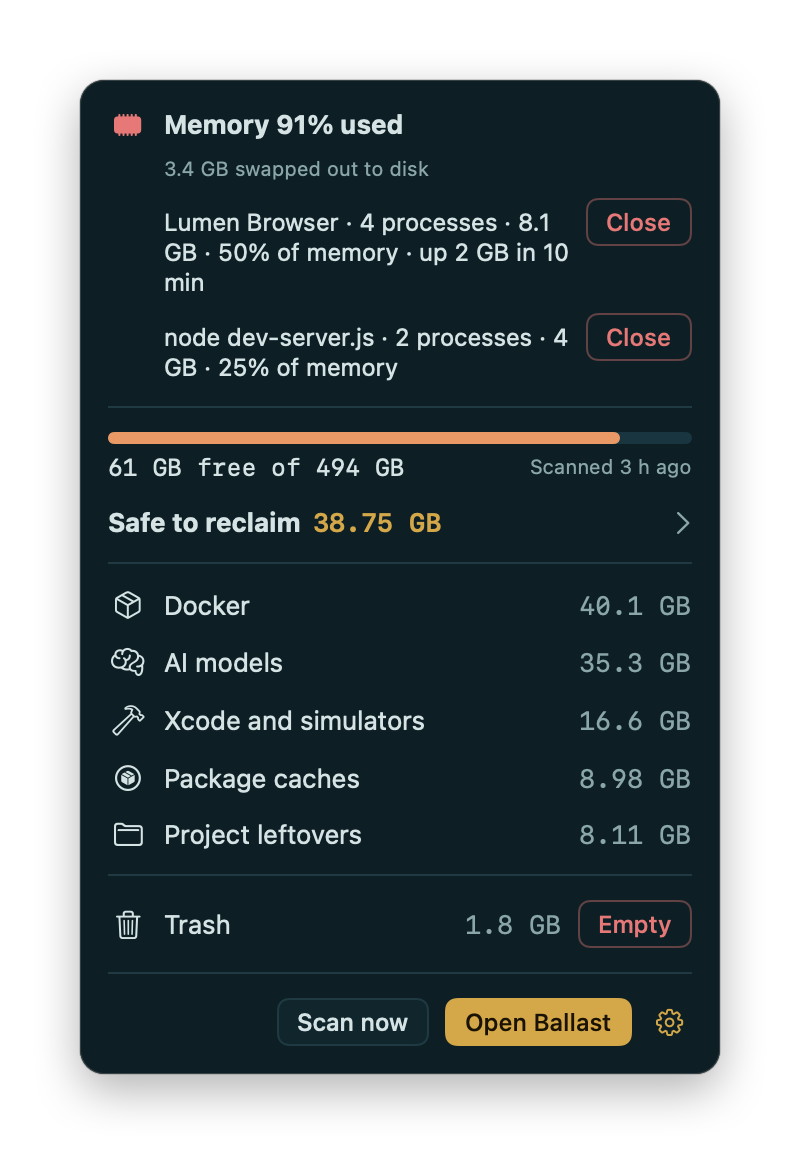
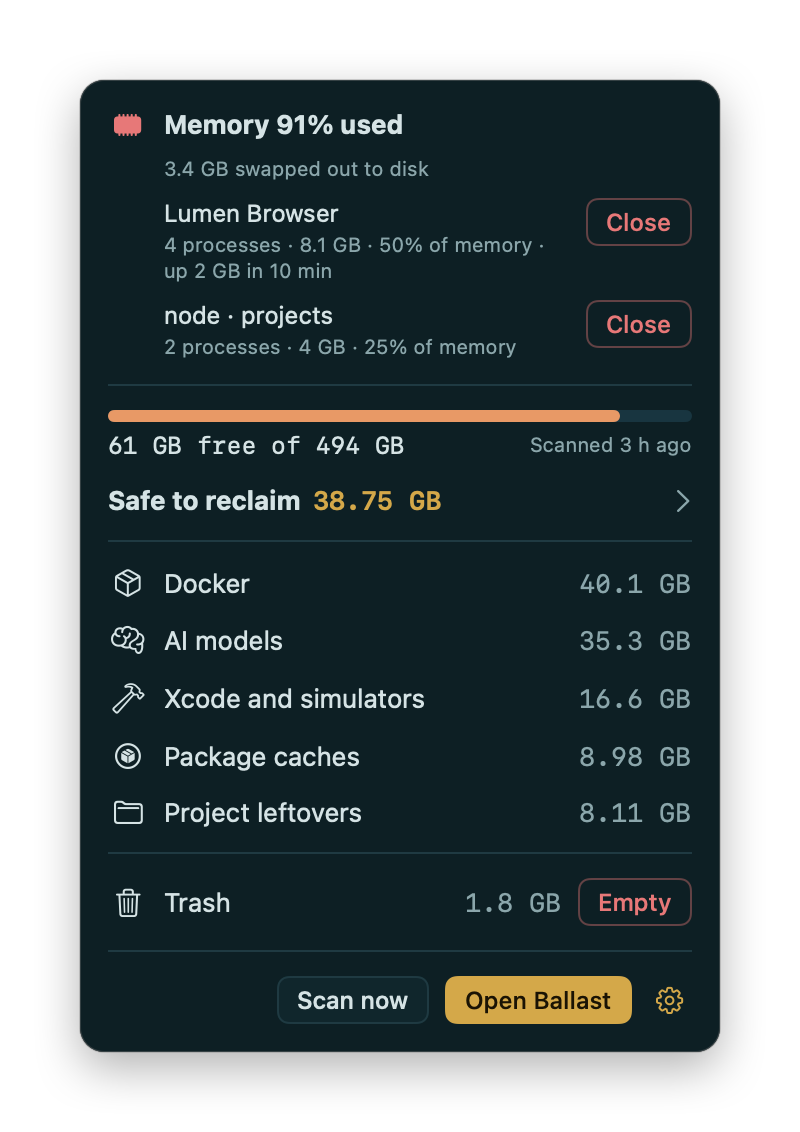
Two-line culprit rows, honest empty state, README and PR text

diff --git a/Tests/BallastCoreTests/MemoryWatchTests.swift b/Tests/BallastCoreTests/MemoryWatchTests.swift
@@ -245,26 +245,43 @@ private func culprit(_ name: String, count: Int, bytes: Int64, share: Int, growt
     return Culprit(group: MemoryGroup(id: name, name: name, processes: procs, bytes: bytes), share: share, growth: growth, growthSeconds: seconds)
 }
 
+private let nb = "\u{00A0}"
+
+/// The details line keeps each figure on one line: a space inside one is a no-break space.
+private func figure(_ s: String) -> String { s.replacingOccurrences(of: " ", with: nb) }
+
 @Suite struct CulpritLineTests {
+    @Test func nameIsJustTheName() {
+        #expect(culpritName(culprit("node · projects", count: 8, bytes: 22 * gb, share: 69)) == "node · projects")
+    }
+
     @Test func singleProcessOmitsCount() {
-        #expect(culpritLine(culprit("Brave Browser", count: 1, bytes: 22 * gb, share: 69)) == "Brave Browser · \(formatBytes(22 * gb)) · 69% of memory")
+        #expect(culpritDetails(culprit("Brave Browser", count: 1, bytes: 22 * gb, share: 69)) == "\(figure(formatBytes(22 * gb))) · 69%\(nb)of\(nb)memory")
     }
 
     @Test func groupShowsCountAndGrowth() {
         let c = culprit("vitest", count: 8, bytes: 31 * gb, share: 31, growth: 24 * gb, seconds: 120)
-        #expect(culpritLine(c) == "vitest · 8 processes · \(formatBytes(31 * gb)) · 31% of memory · up \(formatBytes(24 * gb)) in 2 min")
+        #expect(culpritDetails(c) == "8\(nb)processes · \(figure(formatBytes(31 * gb))) · 31%\(nb)of\(nb)memory · up\(nb)\(figure(formatBytes(24 * gb)))\(nb)in\(nb)2\(nb)min")
+    }
+
+    @Test func detailsNeverBreakInsideAFigure() {
+        let c = culprit("vitest", count: 8, bytes: 34 * gb, share: 69, growth: 7 * gb, seconds: 30)
+        let parts = culpritDetails(c).components(separatedBy: " · ")
+        #expect(parts.count == 4)
+        for part in parts { #expect(!part.contains(" ")) }
+        #expect(parts[3].hasPrefix("up\(nb)"))
     }
 
     @Test func growthDurationUnits() {
-        func tail(_ s: Int) -> String { culpritLine(culprit("a", count: 1, bytes: 5 * gb, share: 30, growth: 2 * gb, seconds: s)) }
-        #expect(tail(45).hasSuffix("in 45 s"))
-        #expect(tail(119).hasSuffix("in 119 s"))
-        #expect(tail(120).hasSuffix("in 2 min"))
-        #expect(tail(150).hasSuffix("in 2 min"))
-        #expect(tail(3 * 3600 + 100).hasSuffix("in 3 hr"))
+        func tail(_ s: Int) -> String { culpritDetails(culprit("a", count: 1, bytes: 5 * gb, share: 30, growth: 2 * gb, seconds: s)) }
+        #expect(tail(45).hasSuffix("in\(nb)45\(nb)s"))
+        #expect(tail(119).hasSuffix("in\(nb)119\(nb)s"))
+        #expect(tail(120).hasSuffix("in\(nb)2\(nb)min"))
+        #expect(tail(150).hasSuffix("in\(nb)2\(nb)min"))
+        #expect(tail(3 * 3600 + 100).hasSuffix("in\(nb)3\(nb)hr"))
     }
 
     @Test func noGrowthMeansNoUpPart() {
-        #expect(!culpritLine(culprit("a", count: 2, bytes: 5 * gb, share: 30)).contains("up"))
+        #expect(!culpritDetails(culprit("a", count: 2, bytes: 5 * gb, share: 30)).contains("up"))
     }
 }

diff --git a/Sources/Ballast/Screenshots.swift b/Sources/Ballast/Screenshots.swift
@@ -72,16 +72,16 @@ import SwiftUI
     /// A made-up strained Mac: an invented browser with a runaway helper and a made-up dev server, both owned by the current user.
     static func fillMemory(_ model: AppModel) {
         let me = getuid()
-        func sample(_ pid: Int32, _ path: String, _ args: [String], _ gbs: Double) -> ProcessSample {
-            ProcessSample(pid: pid, startSeconds: 1_700_000_000, uid: me, path: path, args: args, cwd: nil, footprint: Int64(gbs * Double(gb)))
+        func sample(_ pid: Int32, _ path: String, _ args: [String], _ gbs: Double, cwd: String? = nil) -> ProcessSample {
+            ProcessSample(pid: pid, startSeconds: 1_700_000_000, uid: me, path: path, args: args, cwd: cwd, footprint: Int64(gbs * Double(gb)))
         }
         let browser = [sample(41_001, "/Applications/Lumen Browser.app/Contents/MacOS/Lumen Browser", [], 1.2),
                        sample(41_002, "/Applications/Lumen Browser.app/Contents/Helpers/Lumen Helper", [], 3.1),
                        sample(41_003, "/Applications/Lumen Browser.app/Contents/Helpers/Lumen Helper", [], 2.4),
                        sample(41_004, "/Applications/Lumen Browser.app/Contents/Helpers/Lumen Helper", [], 1.4)]
-        let server = [sample(42_001, "/usr/local/bin/node", ["node", "dev-server.js"], 2.2), sample(42_002, "/usr/local/bin/node", ["node", "dev-server.js"], 1.8)]
+        let server = [sample(42_001, "/usr/local/bin/node", ["node", "dev-server.js"], 2.2, cwd: "/Users/you/projects"), sample(42_002, "/usr/local/bin/node", ["node", "dev-server.js"], 1.8, cwd: "/Users/you/projects")]
         let groups = [MemoryGroup(id: "app:/Applications/Lumen Browser.app", name: "Lumen Browser", processes: browser, bytes: browser.reduce(0) { $0 + $1.footprint }),
-                      MemoryGroup(id: "cli:node dev-server.js", name: "node dev-server.js", processes: server, bytes: server.reduce(0) { $0 + $1.footprint })]
+                      MemoryGroup(id: "runtime:node:/Users/you/projects", name: "node · projects", processes: server, bytes: server.reduce(0) { $0 + $1.footprint })]
         let physical = 16 * gb
         model.memory.isRed = true
         model.memory.usedPercent = 91

diff --git a/Sources/Ballast/MemoryBlock.swift b/Sources/Ballast/MemoryBlock.swift
@@ -18,7 +18,7 @@ struct MemoryBlock: View {
                 Text("\(formatBytes(memory.swapUsed)) swapped out to disk").font(.caption).foregroundStyle(Theme.muted).padding(.leading, 28)
             }
             if memory.culprits.isEmpty {
-                Text("Nothing stands out: memory is spread across lots of small processes.")
+                Text("Nothing Ballast can measure stands out. It can't see inside macOS's or other users' processes.")
                     .font(.caption).foregroundStyle(Theme.muted).padding(.leading, 28)
             } else {
                 ForEach(memory.culprits, id: \.group.id) { c in row(c) }
@@ -28,9 +28,13 @@ struct MemoryBlock: View {
 
     private func row(_ c: Culprit) -> some View {
         let option = closeOption(for: c.group, myUID: getuid(), myPID: ProcessInfo.processInfo.processIdentifier)
+        let name = culpritName(c)
         return VStack(alignment: .leading, spacing: 4) {
-            HStack(alignment: .firstTextBaseline) {
-                Text(culpritLine(c)).font(.callout).fixedSize(horizontal: false, vertical: true)
+            HStack(alignment: .top, spacing: 6) {
+                VStack(alignment: .leading, spacing: 2) {
+                    Text(name).font(.callout).lineLimit(1).truncationMode(.middle)
+                    Text(culpritDetails(c)).font(.caption).foregroundStyle(Theme.muted).fixedSize(horizontal: false, vertical: true)
+                }
                 Spacer(minLength: 6)
                 switch option {
                 case .notOffered:
@@ -39,6 +43,8 @@ struct MemoryBlock: View {
                     Button("Close") { Task { await closer.close(c.group, option: option, memory: model.memory) } }
                         .buttonStyle(DangerButtonStyle(outline: true))
                         .controlSize(.small)
+                        .fixedSize()
+                        .accessibilityLabel("Close \(name)")
                         .disabled(closer.closing.contains(c.group.id))
                 }
             }

diff --git a/Sources/BallastCore/MemoryWatch.swift b/Sources/BallastCore/MemoryWatch.swift
@@ -174,15 +174,20 @@ private func growthDuration(_ seconds: Int) -> String {
     return "\(seconds / 3600) hr"
 }
 
-/// One row of text for a culprit: name, process count (groups only), size, share, and growth when measured.
-public func culpritLine(_ c: Culprit) -> String {
-    var parts = [c.group.name]
-    if c.group.processes.count > 1 { parts.append("\(c.group.processes.count) processes") }
-    parts.append(formatBytes(c.group.bytes))
-    parts.append("\(c.share)% of memory")
-    var line = parts.joined(separator: " · ")
+private func figure(_ s: String) -> String { s.replacingOccurrences(of: " ", with: "\u{00A0}") }
+
+/// The first line of a culprit's row.
+public func culpritName(_ c: Culprit) -> String { c.group.name }
+
+/// The second, smaller line: process count (groups only), size, share, and growth when measured.
+/// Spaces inside each figure are no-break spaces, so a narrow menu wraps between figures, never inside one.
+public func culpritDetails(_ c: Culprit) -> String {
+    var parts: [String] = []
+    if c.group.processes.count > 1 { parts.append(figure("\(c.group.processes.count) processes")) }
+    parts.append(figure(formatBytes(c.group.bytes)))
+    parts.append(figure("\(c.share)% of memory"))
     if let growth = c.growth, let seconds = c.growthSeconds {
-        line += " · up \(formatBytes(growth)) in \(growthDuration(seconds))"
+        parts.append(figure("up \(formatBytes(growth)) in \(growthDuration(seconds))"))
     }
-    return line
+    return parts.joined(separator: " · ")
 }

diff --git a/README.md b/README.md
@@ -98,7 +98,7 @@ The menu bar icon shows free space at a glance. Click it for a summary of the bi
   <img src="docs/screenshots/iphone.png" alt="Connected iPhone: a storage bar split into photos and videos, apps, iOS, not visible over USB and free, then large videos and apps with two videos and one app ticked">
 </picture>
 
-**Memory alerts** turn the menu bar icon red, with how full memory is beside it, when your Mac is running short. Click it and the menu names the apps and groups of processes holding the most, how much of memory each takes and whether it grew lately, each with a **Close** button. It's only the icon: no notification, no sound, nothing in your way. Ballast checks every 30 seconds and when macOS reports memory pressure, and only looks at individual apps when memory is getting full.
+**Memory alerts** change the menu bar icon to a memory chip, with how full memory is beside it, when your Mac is running short. Click it and the menu names the apps and groups of processes holding the most, how much of memory each takes and whether it grew lately, each with a **Close** button. It's only the icon: no notification, no sound, nothing in your way. Ballast checks every 30 seconds and when macOS reports memory pressure, and only looks at individual apps when memory is getting full.
 
 <p align="center">
 <picture>
@@ -107,7 +107,7 @@ The menu bar icon shows free space at a glance. Click it for a summary of the bi
 </picture>
 </p>
 
-**Close** asks first, and never closes anything automatically. For an app it asks the app to quit, and offers **Force Quit** only if it's still running after 5 seconds. For a group of command-line processes it asks them to stop, and offers **Force Stop** only if some are still running after 3 seconds. Ballast only offers Close for your own apps and processes. It never closes macOS's own processes, other users' or root's processes, or Ballast itself: those are listed with the reason instead. Nothing about memory is written to disk. Quiet mode stops the checks.
+**Close** asks first, and never closes anything automatically. For an app it asks the app to quit, and offers **Force Quit** only if it's still running after 5 seconds. For a group of command-line processes it asks them to stop, and offers **Force Stop** only if some are still running after 3 seconds. Ballast only offers Close for your own apps and processes. It never closes macOS's own processes, other users' or root's processes, or Ballast itself. When one of those is what's using the memory, its row says why there's no Close button, but Ballast can't measure what's inside root's or other users' processes, so they can't be named at all. When nothing it can measure stands out, the menu says so. Nothing about memory is written to disk. Quiet mode stops the checks.
 
 ## Safety in detail
 
